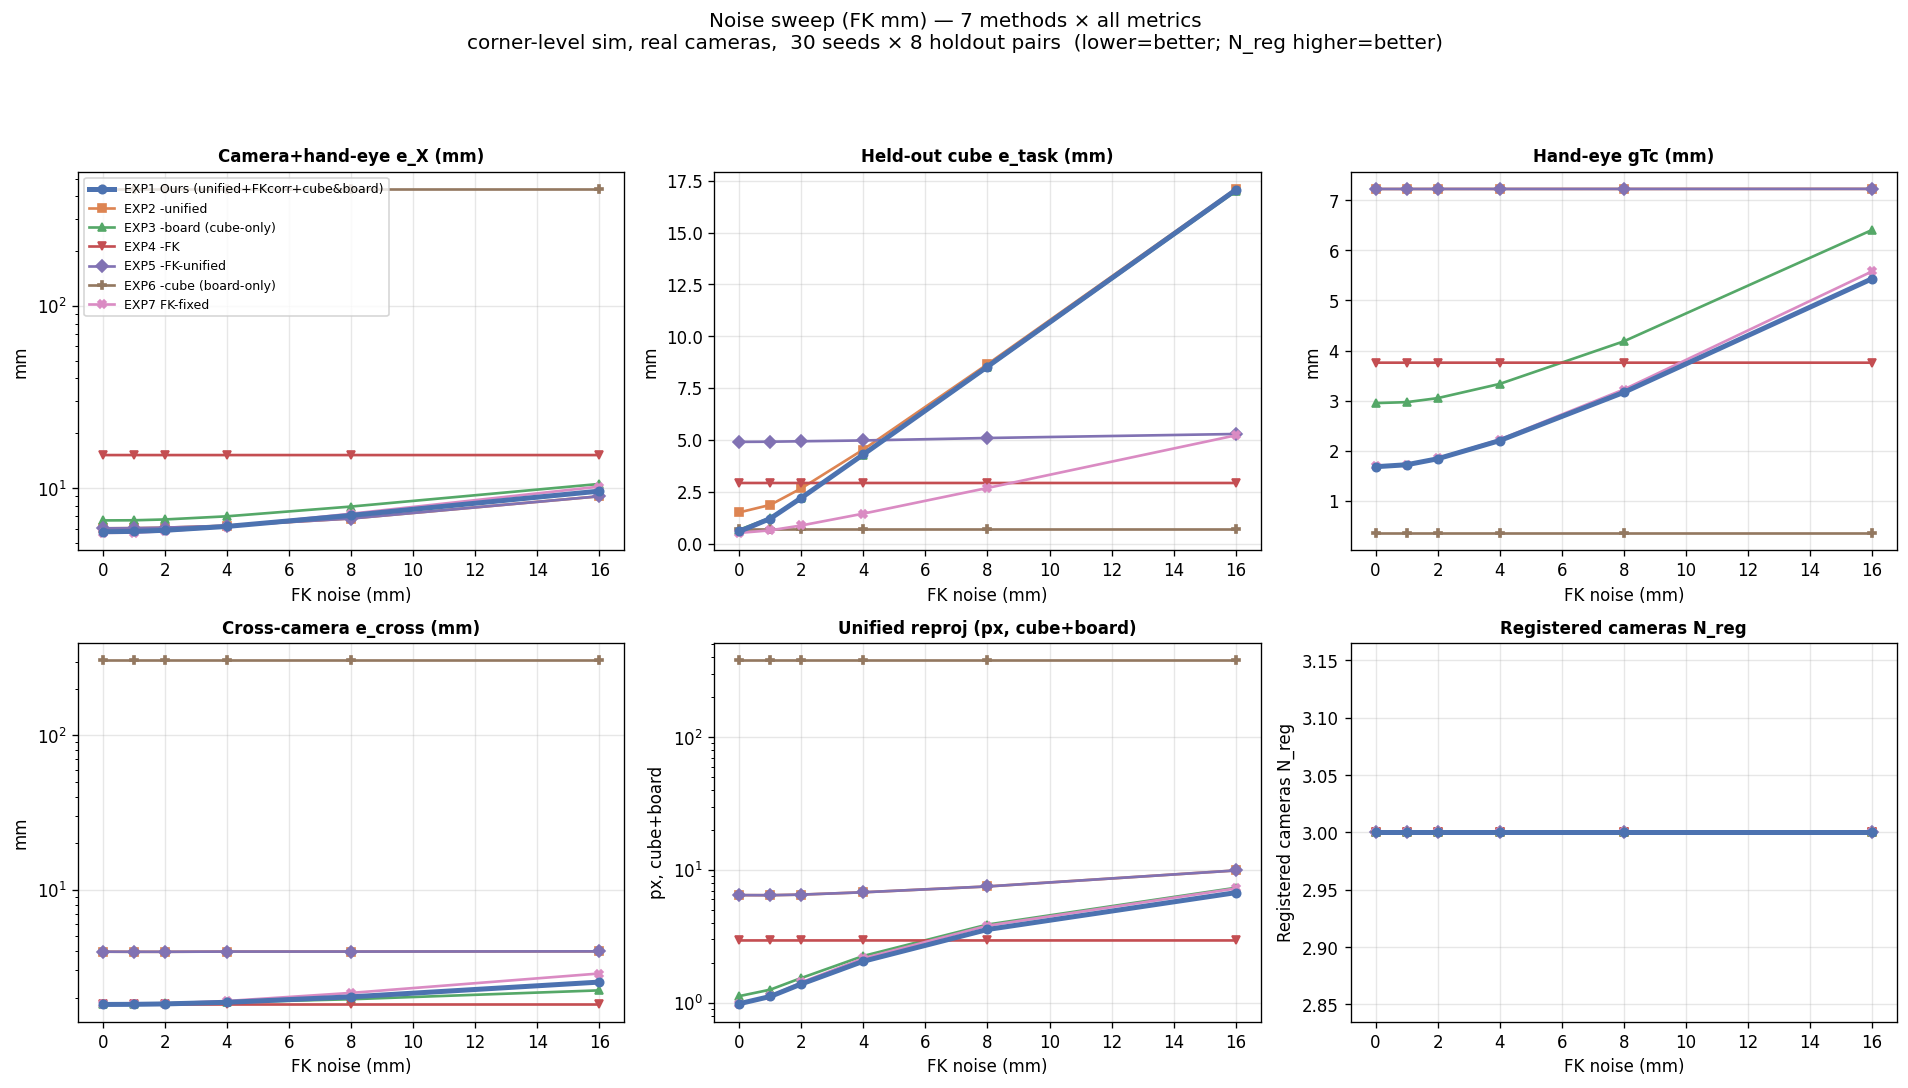
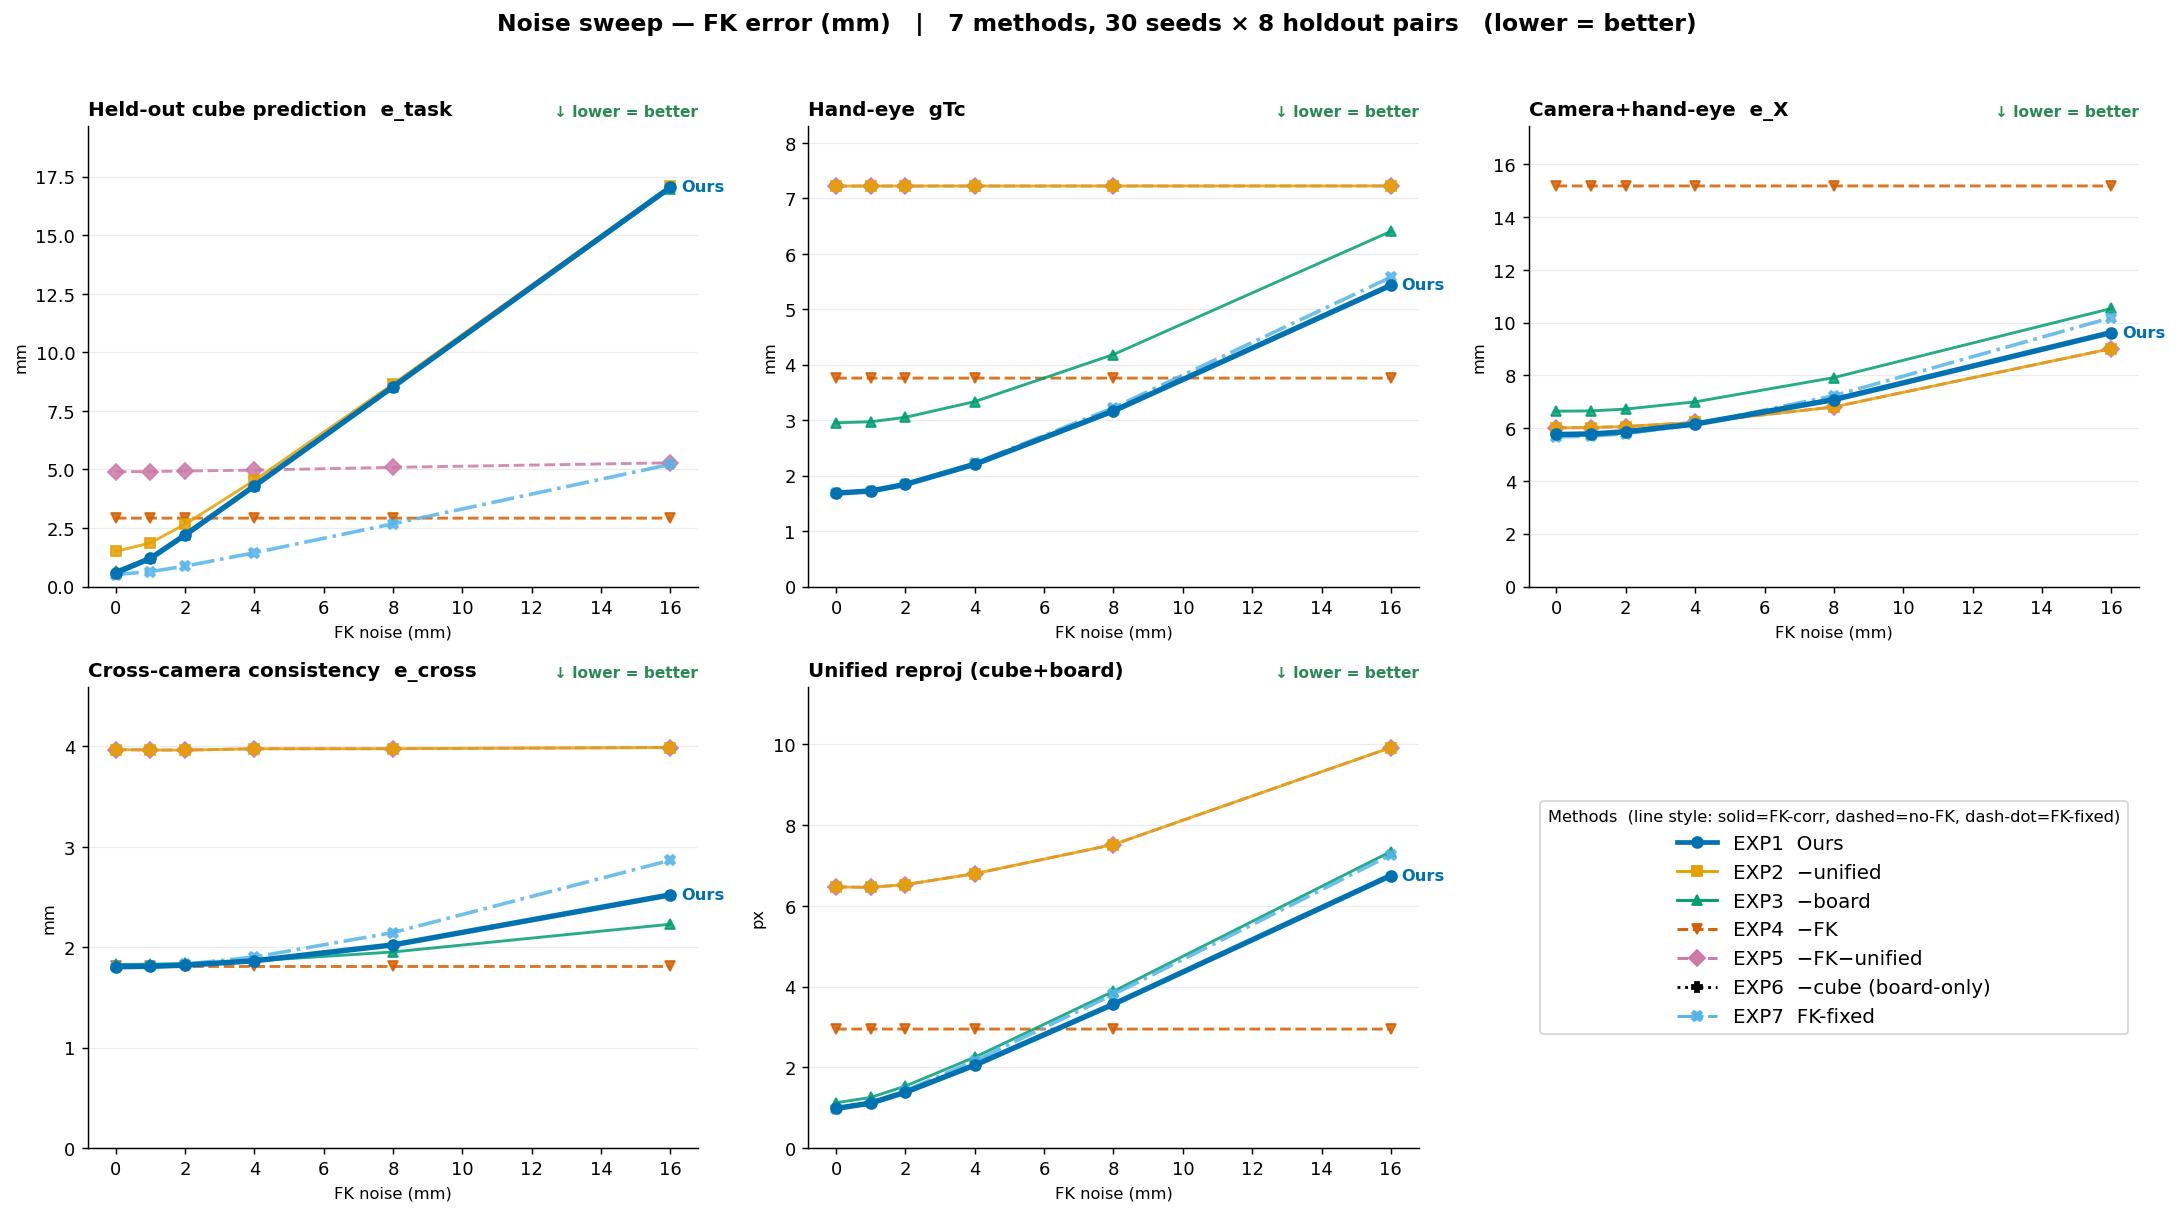
Redesign sweep figures (dataviz): readable, colorblind-safe
- Okabe-Ito palette + line-style encoding (solid=FK-corr, dashed=no-FK,
  dash-dot=FK-fixed) → dual encoding, no overplotting
- auto y-cap per panel (collapse cases off-scale w/ annotation)
- Ours bold + direct end-label; "↓ lower = better" per panel
- clean spines, dedicated legend panel

diff --git a/Simulation/viz_sweeps.py b/Simulation/viz_sweeps.py
@@ -1,76 +1,130 @@
 #!/usr/bin/env python3
 """
 sweep 곡선 그림 — run_sweeps.py 의 JSON(코너/FK 축)에서 지표별 패널로 7방식 곡선 렌더.
+dataviz 원칙 적용: 색맹안전(Okabe-Ito), y축 캡(붕괴는 주석), Ours 강조, 직접 끝라벨.
 
   python viz_sweeps.py --json results/tables/sweep_corner.json
   python viz_sweeps.py --json results/tables/sweep_fk.json
-지표 6개(e_X, e_task, gTc, e_cross, reproj, N_reg)를 각 패널로. 7방식 곡선 + Ours 굵게.
 """
 import sys, os, json, argparse
+import numpy as np
 import matplotlib
 matplotlib.use("Agg")
 import matplotlib.pyplot as plt
 
 FIG_DIR = os.path.join(os.path.dirname(__file__), "results", "figures")
 
-# 7방식 색/마커 (범례는 영문 — matplotlib 기본 폰트에 한글 없어 깨짐)
+# Okabe-Ito 색맹 안전 팔레트 + 선 스타일로 FK 방식 인코딩(solid=corr, dashed=none, dotted=fixed)
 STYLE = {
-    "EXP1": ("#4c72b0", "o", "EXP1 Ours (unified+FKcorr+cube&board)"),
-    "EXP2": ("#dd8452", "s", "EXP2 -unified"),
-    "EXP3": ("#55a868", "^", "EXP3 -board (cube-only)"),
-    "EXP4": ("#c44e52", "v", "EXP4 -FK"),
-    "EXP5": ("#8172b3", "D", "EXP5 -FK-unified"),
-    "EXP6": ("#937860", "P", "EXP6 -cube (board-only)"),
-    "EXP7": ("#da8bc3", "X", "EXP7 FK-fixed"),
+    "EXP1": ("#0072B2", "-",  3.0, "o", "Ours"),                 # 파랑 굵게
+    "EXP2": ("#E69F00", "-",  1.6, "s", "−unified"),             # 주황 (corr)
+    "EXP3": ("#009E73", "-",  1.6, "^", "−board"),               # 초록 (corr)
+    "EXP4": ("#D55E00", "--", 1.6, "v", "−FK"),                  # 주홍 (none, dashed)
+    "EXP5": ("#CC79A7", "--", 1.6, "D", "−FK−unified"),          # 자주 (none, dashed)
+    "EXP6": ("#000000", ":",  1.6, "P", "−cube (board-only)"),   # 검정 (none, dotted)
+    "EXP7": ("#56B4E9", "-.", 2.0, "X", "FK-fixed"),             # 하늘 (fixed, dash-dot)
 }
+ORDER = ["EXP4", "EXP5", "EXP2", "EXP3", "EXP7", "EXP1"]   # Ours 마지막(맨 위)
+# 각 지표: (key, 제목, 단위). y캡은 데이터에서 자동(붕괴 EXP6 제외한 최대의 1.15배).
 PANELS = [
-    ("e_X_mm", "Camera+hand-eye e_X (mm)"),
-    ("e_task_mm", "Held-out cube e_task (mm)"),
-    ("gTc_mm", "Hand-eye gTc (mm)"),
-    ("e_cross_mm", "Cross-camera e_cross (mm)"),
-    ("e_reproj_px", "Unified reproj (px, cube+board)"),
-    ("N_reg", "Registered cameras N_reg"),
+    ("e_task_mm", "Held-out cube prediction  e_task", "mm"),
+    ("gTc_mm", "Hand-eye  gTc", "mm"),
+    ("e_X_mm", "Camera+hand-eye  e_X", "mm"),
+    ("e_cross_mm", "Cross-camera consistency  e_cross", "mm"),
+    ("e_reproj_px", "Unified reproj (cube+board)", "px"),
 ]
+# 붕괴로 간주할 방식(항상 축 밖 처리) — 캘리브 실패해 값이 발산
+COLLAPSE = {"EXP6"}
+
+
+def _auto_cap(curves, key):
+    """붕괴(EXP6) 제외한 방식들의 최대값 → 그 1.15배를 y캡으로."""
+    mx = 0.0
+    for name in STYLE:
+        if name in COLLAPSE:
+            continue
+        ys = [y for y in curves[name][key] if y is not None]
+        if ys:
+            mx = max(mx, max(ys))
+    return mx * 1.15 if mx > 0 else 1.0
 
 
 def main():
     ap = argparse.ArgumentParser()
     ap.add_argument("--json", required=True)
-    ap.add_argument("--logy", action="store_true", help="y축 로그(붕괴 케이스 대비)")
     args = ap.parse_args()
     blob = json.load(open(args.json))
-    axis = blob["axis"]; unit = blob["unit"]; levels = blob["levels"]; curves = blob["curves"]
-    xlabel = f"corner noise σ ({unit})" if axis == "corner" else f"FK noise ({unit})"
+    axis, unit = blob["axis"], blob["unit"]
+    levels, curves = blob["levels"], blob["curves"]
+    xlabel = f"corner noise  σ ({unit})" if axis == "corner" else f"FK noise ({unit})"
+    x0 = 0.3 if axis == "corner" else None
 
-    fig, axes = plt.subplots(2, 3, figsize=(16, 9))
-    for ax, (key, title) in zip(axes.flat, PANELS):
-        for name, (col, mk, lab) in STYLE.items():
+    fig, axes = plt.subplots(2, 3, figsize=(17, 9.5))
+    axes = axes.flat
+    for ax, (key, title, yu) in zip(axes, PANELS):
+        cap = _auto_cap(curves, key)
+        offscale = []
+        for name in ORDER:
+            col, ls, lw, mk, lab = STYLE[name]
             ys = curves[name][key]
             xs = [x for x, y in zip(levels, ys) if y is not None]
             yv = [y for y in ys if y is not None]
             if not yv:
                 continue
-            ax.plot(xs, yv, marker=mk, color=col, ms=5,
-                    linewidth=(3 if name == "EXP1" else 1.6),
-                    zorder=(3 if name == "EXP1" else 2), label=lab)
-        ax.set_xlabel(xlabel); ax.set_ylabel(title.split("(")[-1].rstrip(")"))
-        ax.set_title(title, fontsize=10, fontweight="bold")
-        ax.grid(alpha=0.3)
-        if args.logy and key in ("e_X_mm", "e_reproj_px", "e_cross_mm"):
-            ax.set_yscale("log")
-        if axis == "corner":
-            ax.axvline(0.3, color="gray", ls="--", alpha=0.4)
-    axes.flat[0].legend(fontsize=7.5, ncol=1, loc="upper left")
+            # 값이 캡을 크게 넘으면(붕괴) 축 밖 → 주석. 아니면 그린다.
+            if np.median(yv) > cap:
+                offscale.append((lab, max(yv)))
+                continue
+            z = 5 if name == "EXP1" else 2
+            ax.plot(xs, yv, color=col, ls=ls, lw=lw, marker=mk, ms=6,
+                    zorder=z, label=lab, alpha=(1.0 if name == "EXP1" else 0.85),
+                    clip_on=True)
+            # 직접 끝 라벨 (마지막 점)
+            if name == "EXP1":
+                ax.annotate(lab, (xs[-1], min(yv[-1], cap * 0.98)), fontsize=9,
+                            fontweight="bold", color=col, va="center",
+                            xytext=(6, 0), textcoords="offset points")
+        ax.set_ylim(0, cap)
+        ax.set_xlabel(xlabel, fontsize=9)
+        ax.set_ylabel(yu, fontsize=9)
+        ax.set_title(title, fontsize=11, fontweight="bold", loc="left")
+        # 방향 표시: 이 6개 지표는 모두 낮을수록 좋음
+        ax.text(1.0, 1.015, "↓ lower = better", transform=ax.transAxes,
+                fontsize=8.5, color="#2a8a55", ha="right", va="bottom",
+                fontweight="bold")
+        ax.grid(axis="y", alpha=0.25, lw=0.7)
+        ax.spines[["top", "right"]].set_visible(False)
+        if x0 is not None:
+            ax.axvline(x0, color="gray", ls="--", alpha=0.4, lw=0.8, zorder=1)
+            ax.text(x0, cap * 0.97, " real σ", fontsize=7.5, color="gray", va="top")
+        # 축 밖(붕괴) 주석
+        if offscale:
+            txt = "off-scale (collapse):\n" + "\n".join(
+                f"  {l} →{v:.0f}{yu}" for l, v in offscale)
+            ax.text(0.98, 0.02, txt, transform=ax.transAxes, fontsize=7.5,
+                    ha="right", va="bottom", color="#555",
+                    bbox=dict(boxstyle="round,pad=0.3", fc="#f4f4f4", ec="#ccc"))
+
+    # 마지막 칸: 범례 + N_reg 요약
+    axes[5].axis("off")
+    handles = [plt.Line2D([0], [0], color=STYLE[n][0], ls=STYLE[n][1],
+                          lw=(2.6 if n == "EXP1" else 1.6), marker=STYLE[n][3], ms=6)
+               for n in ["EXP1", "EXP2", "EXP3", "EXP4", "EXP5", "EXP6", "EXP7"]]
+    labels = [f"{n}  {STYLE[n][4]}" for n in
+              ["EXP1", "EXP2", "EXP3", "EXP4", "EXP5", "EXP6", "EXP7"]]
+    axes[5].legend(handles, labels, loc="center", fontsize=11, frameon=True,
+                   title="Methods  (line style: solid=FK-corr, dashed=no-FK, dash-dot=FK-fixed)",
+                   title_fontsize=9)
 
     fig.suptitle(
-        f"Noise sweep ({'corner σ px' if axis=='corner' else 'FK mm'}) — 7 methods × all metrics\n"
-        f"corner-level sim, real cameras,  {blob['meta']['seeds']} seeds × "
-        f"{blob['meta']['pairs']} holdout pairs  (lower=better; N_reg higher=better)",
-        fontsize=12, y=1.0)
-    fig.tight_layout(rect=[0, 0, 1, 0.95])
+        f"Noise sweep — {'corner σ (px)' if axis=='corner' else 'FK error (mm)'}   |   "
+        f"7 methods, {blob['meta']['seeds']} seeds × {blob['meta']['pairs']} holdout pairs   "
+        f"(lower = better)",
+        fontsize=13, fontweight="bold")
+    fig.tight_layout(rect=[0, 0, 1, 0.96])
     os.makedirs(FIG_DIR, exist_ok=True)
     out = os.path.join(FIG_DIR, f"sweep_{axis}.png")
-    fig.savefig(out, dpi=120, bbox_inches="tight")
+    fig.savefig(out, dpi=130, bbox_inches="tight")
     print(f"[저장] {out}")
 
 
